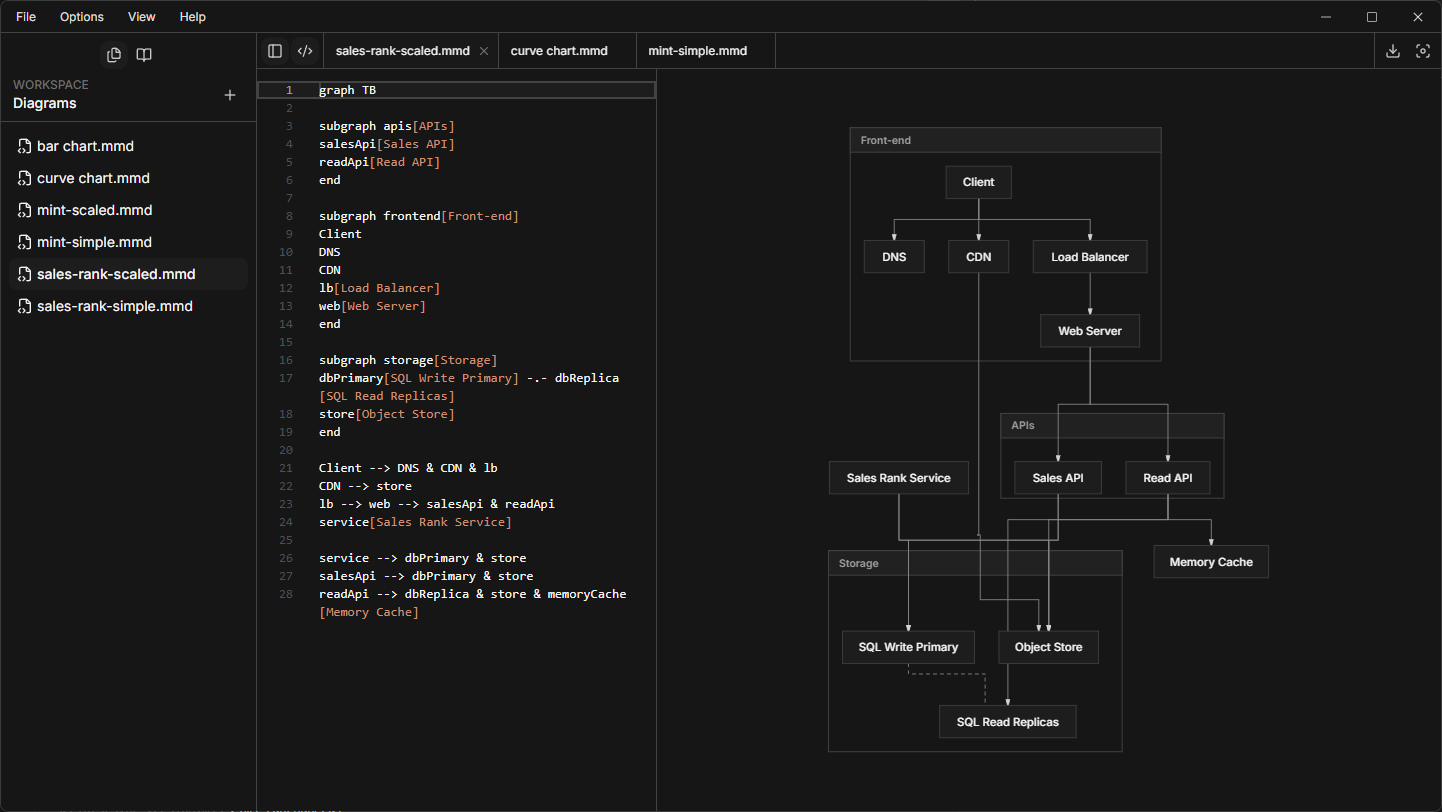
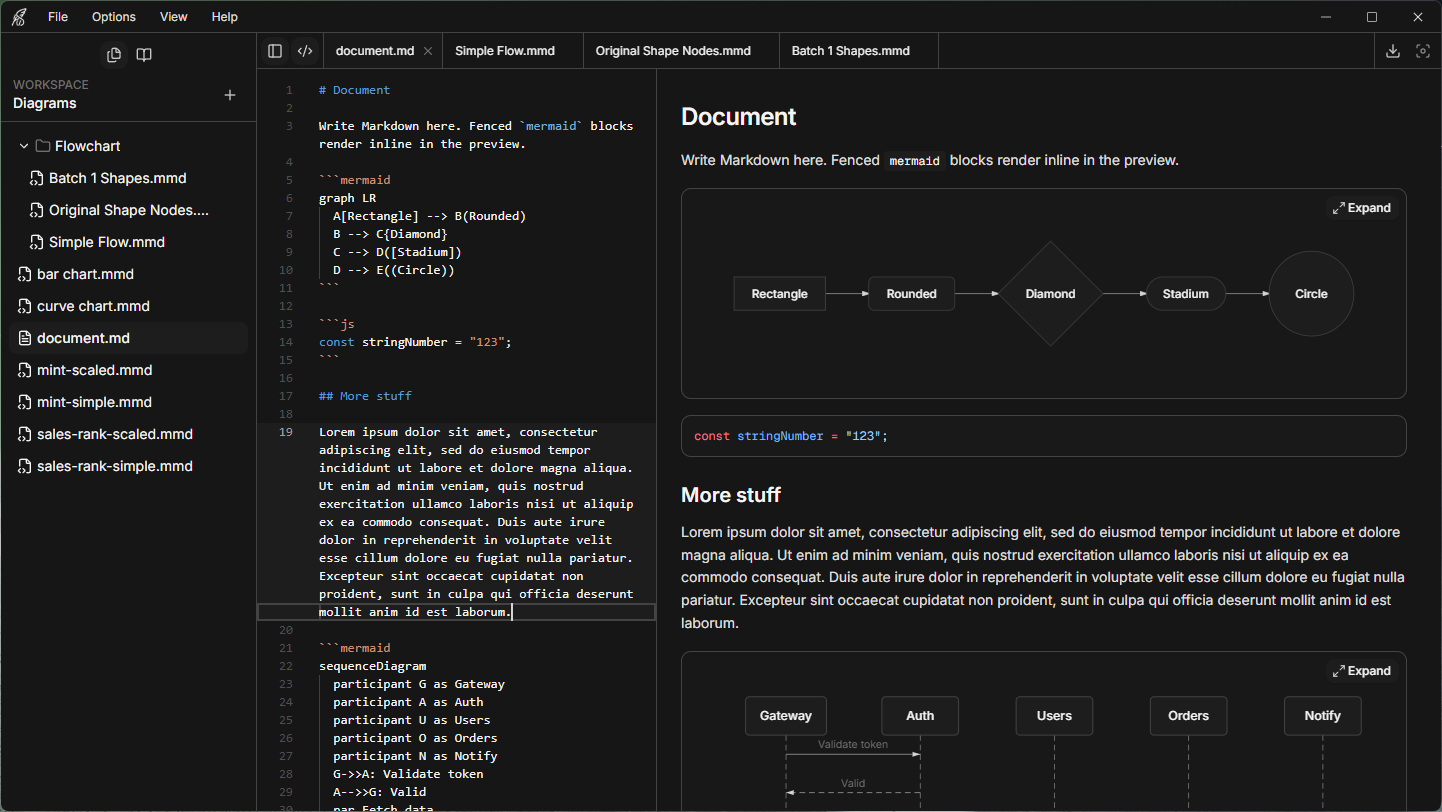
docs: update readme

diff --git a/README.md b/README.md
@@ -6,24 +6,39 @@
 
 **Mermaid & markdown on your machine.**
 
-Scrivon is a desktop editor for [Mermaid](https://mermaid.js.org/) diagrams. Open a folder on disk, edit `.mmd` files with syntax highlighting, and preview diagrams live on the canvas — no account, no cloud workspace required.
+Scrivon is a desktop editor for [Mermaid](https://mermaid.js.org/) diagrams and Markdown documents. Open a folder on disk, edit `.mmd` or `.md` files with syntax highlighting, and preview diagrams or rendered Markdown live — no account, no cloud workspace required.
 
 <p align="center">
-  <img src="preview.png" alt="Scrivon — workspace, Monaco editor, and live Mermaid preview" width="900" />
+  <img src="preview.png" alt="Scrivon — workspace, Monaco editor, and live diagram or Markdown preview" width="900" />
 </p>
 
 ## Features
 
+### Workspaces & files
+
 - **Folder workspaces** — Open any directory on disk; your files never leave your machine
-- **File explorer** — Create, rename, duplicate, and delete `.mmd` / `.mermaid` files and folders from the sidebar
-- **Split editor + preview** — [Monaco](https://microsoft.github.io/monaco-editor/) editor with syntax highlighting beside a live-rendered diagram canvas
-- **Multi-tab editing** — Work across several diagrams in one session; tab state is restored per workspace
+- **File explorer** — Create, rename, duplicate, and delete `.md`, `.mmd`, `.mermaid` files and folders from the sidebar
+- **Multi-tab editing** — Work across several documents in one session; tab state is restored per workspace
+- **Recent folders** — Quick access from the welcome screen and **File → Open Recent**
+
+### Mermaid diagrams
+
+- **Dedicated diagram files** — Edit standalone `.mmd` / `.mermaid` sources with a split editor and canvas preview
 - **Canvas tools** — Pan and zoom the preview, fit diagram to screen, or switch to preview-only layout
-- **Export** — Save the active diagram as SVG or PNG (1×, 2×, or 4×)
-- **Built-in examples** — Curated sample diagrams to explore Mermaid syntax and layouts
+- **Diagram export** — Save the active diagram as SVG or PNG (1×, 2×, or 4×)
+
+### Markdown documents
+
+- **Live Markdown preview** — [GFM](https://github.github.com/gfm/)-style rendering beside the editor (tables, task lists, strikethrough, and more)
+- **Syntax-highlighted code** — Fenced code blocks use [Shiki](https://shiki.style/) themes that follow your UI light/dark mode
+- **Embedded Mermaid** — `mermaid` fenced blocks render inline; expand any block to the full canvas for pan, zoom, and export
+- **PDF export** — Save the full rendered document as PDF (native export on Windows via WebView2)
+
+### General
+
+- **Built-in examples** — Curated sample diagrams and a Markdown syntax showcase to explore features
 - **Themes** — Light and dark UI plus 15+ diagram palettes (Scrivon, Zinc, Tokyo Night, Catppuccin, Nord, Dracula, GitHub, Solarized, One Dark, and more)
 - **Autosave** — Optional autosave to disk; **Ctrl/Cmd+S** saves immediately
-- **Recent folders** — Quick access from the welcome screen and **File → Open Recent**
 - **Desktop-native** — Built with [Tauri 2](https://v2.tauri.app/) for a fast, local-first experience on Windows
 - **Auto-updates** — Stable releases can update in-app (see [releases](https://github.com/Jamie-Fairweather/scrivon/releases))
 
@@ -44,8 +59,10 @@ Pre-built installers are published on **[GitHub Releases](https://github.com/Jam
 
 1. Download the latest installer from [Releases](https://github.com/Jamie-Fairweather/scrivon/releases).
 2. Launch Scrivon and choose **Open Folder**.
-3. Select a directory containing `.mmd` (or compatible) diagram files.
+3. Select a directory containing `.md` and/or `.mmd` files.
 4. Edit in the center pane; the preview updates as you type.
+    - **Diagram files** — Preview renders on the canvas.
+    - **Markdown files** — Preview shows rendered Markdown; use **Expand** on a `mermaid` block to open it on the canvas.
 
 ### Build from source
 
@@ -62,24 +79,29 @@ For release builds, signing keys, branch workflow, and semantic-release setup, s
 
 ## Tech stack
 
-| Layer             | Technologies                                                       |
-| ----------------- | ------------------------------------------------------------------ |
-| Desktop shell     | [Tauri 2](https://v2.tauri.app/) (Rust)                            |
-| UI                | [Next.js](https://nextjs.org/), [React 19](https://react.dev/)     |
-| Editor            | [Monaco](https://microsoft.github.io/monaco-editor/)               |
-| Diagram rendering | [beautiful-mermaid](https://github.com/lukilabs/beautiful-mermaid) |
-| Styling           | [Tailwind CSS](https://tailwindcss.com/)                           |
+| Layer              | Technologies                                                                                                       |
+| ------------------ | ------------------------------------------------------------------------------------------------------------------ |
+| Desktop shell      | [Tauri 2](https://v2.tauri.app/) (Rust)                                                                            |
+| UI                 | [Next.js](https://nextjs.org/), [React 19](https://react.dev/)                                                     |
+| Editor             | [Monaco](https://microsoft.github.io/monaco-editor/)                                                               |
+| Diagram rendering  | [beautiful-mermaid](https://github.com/lukilabs/beautiful-mermaid)                                                 |
+| Markdown rendering | [react-markdown](https://github.com/remarkjs/react-markdown), [remark-gfm](https://github.com/remarkjs/remark-gfm) |
+| Code highlighting  | [Shiki](https://shiki.style/)                                                                                      |
+| Styling            | [Tailwind CSS](https://tailwindcss.com/)                                                                           |
 
 ## Project layout
 
 ```
 scrivon/
-├── app/                 # Next.js app routes
-├── components/studio/   # Editor, canvas, workspace UI
-├── lib/                 # Mermaid, workspace, Tauri helpers
-├── src-tauri/           # Tauri / Rust backend
-├── scripts/             # Build and codegen utilities
-└── docs/                # Maintainer documentation
+├── app/                      # Next.js app routes
+├── components/studio/        # Editor, canvas, workspace UI
+│   └── markdown/             # Markdown preview and embedded diagrams
+├── lib/
+│   ├── markdown/             # GFM pipeline, Shiki, PDF export HTML
+│   └── mermaid/              # Diagram render and export
+├── src-tauri/                # Tauri / Rust backend
+├── scripts/                  # Build and codegen utilities
+└── docs/                     # Maintainer documentation
 ```
 
 ## Contributing